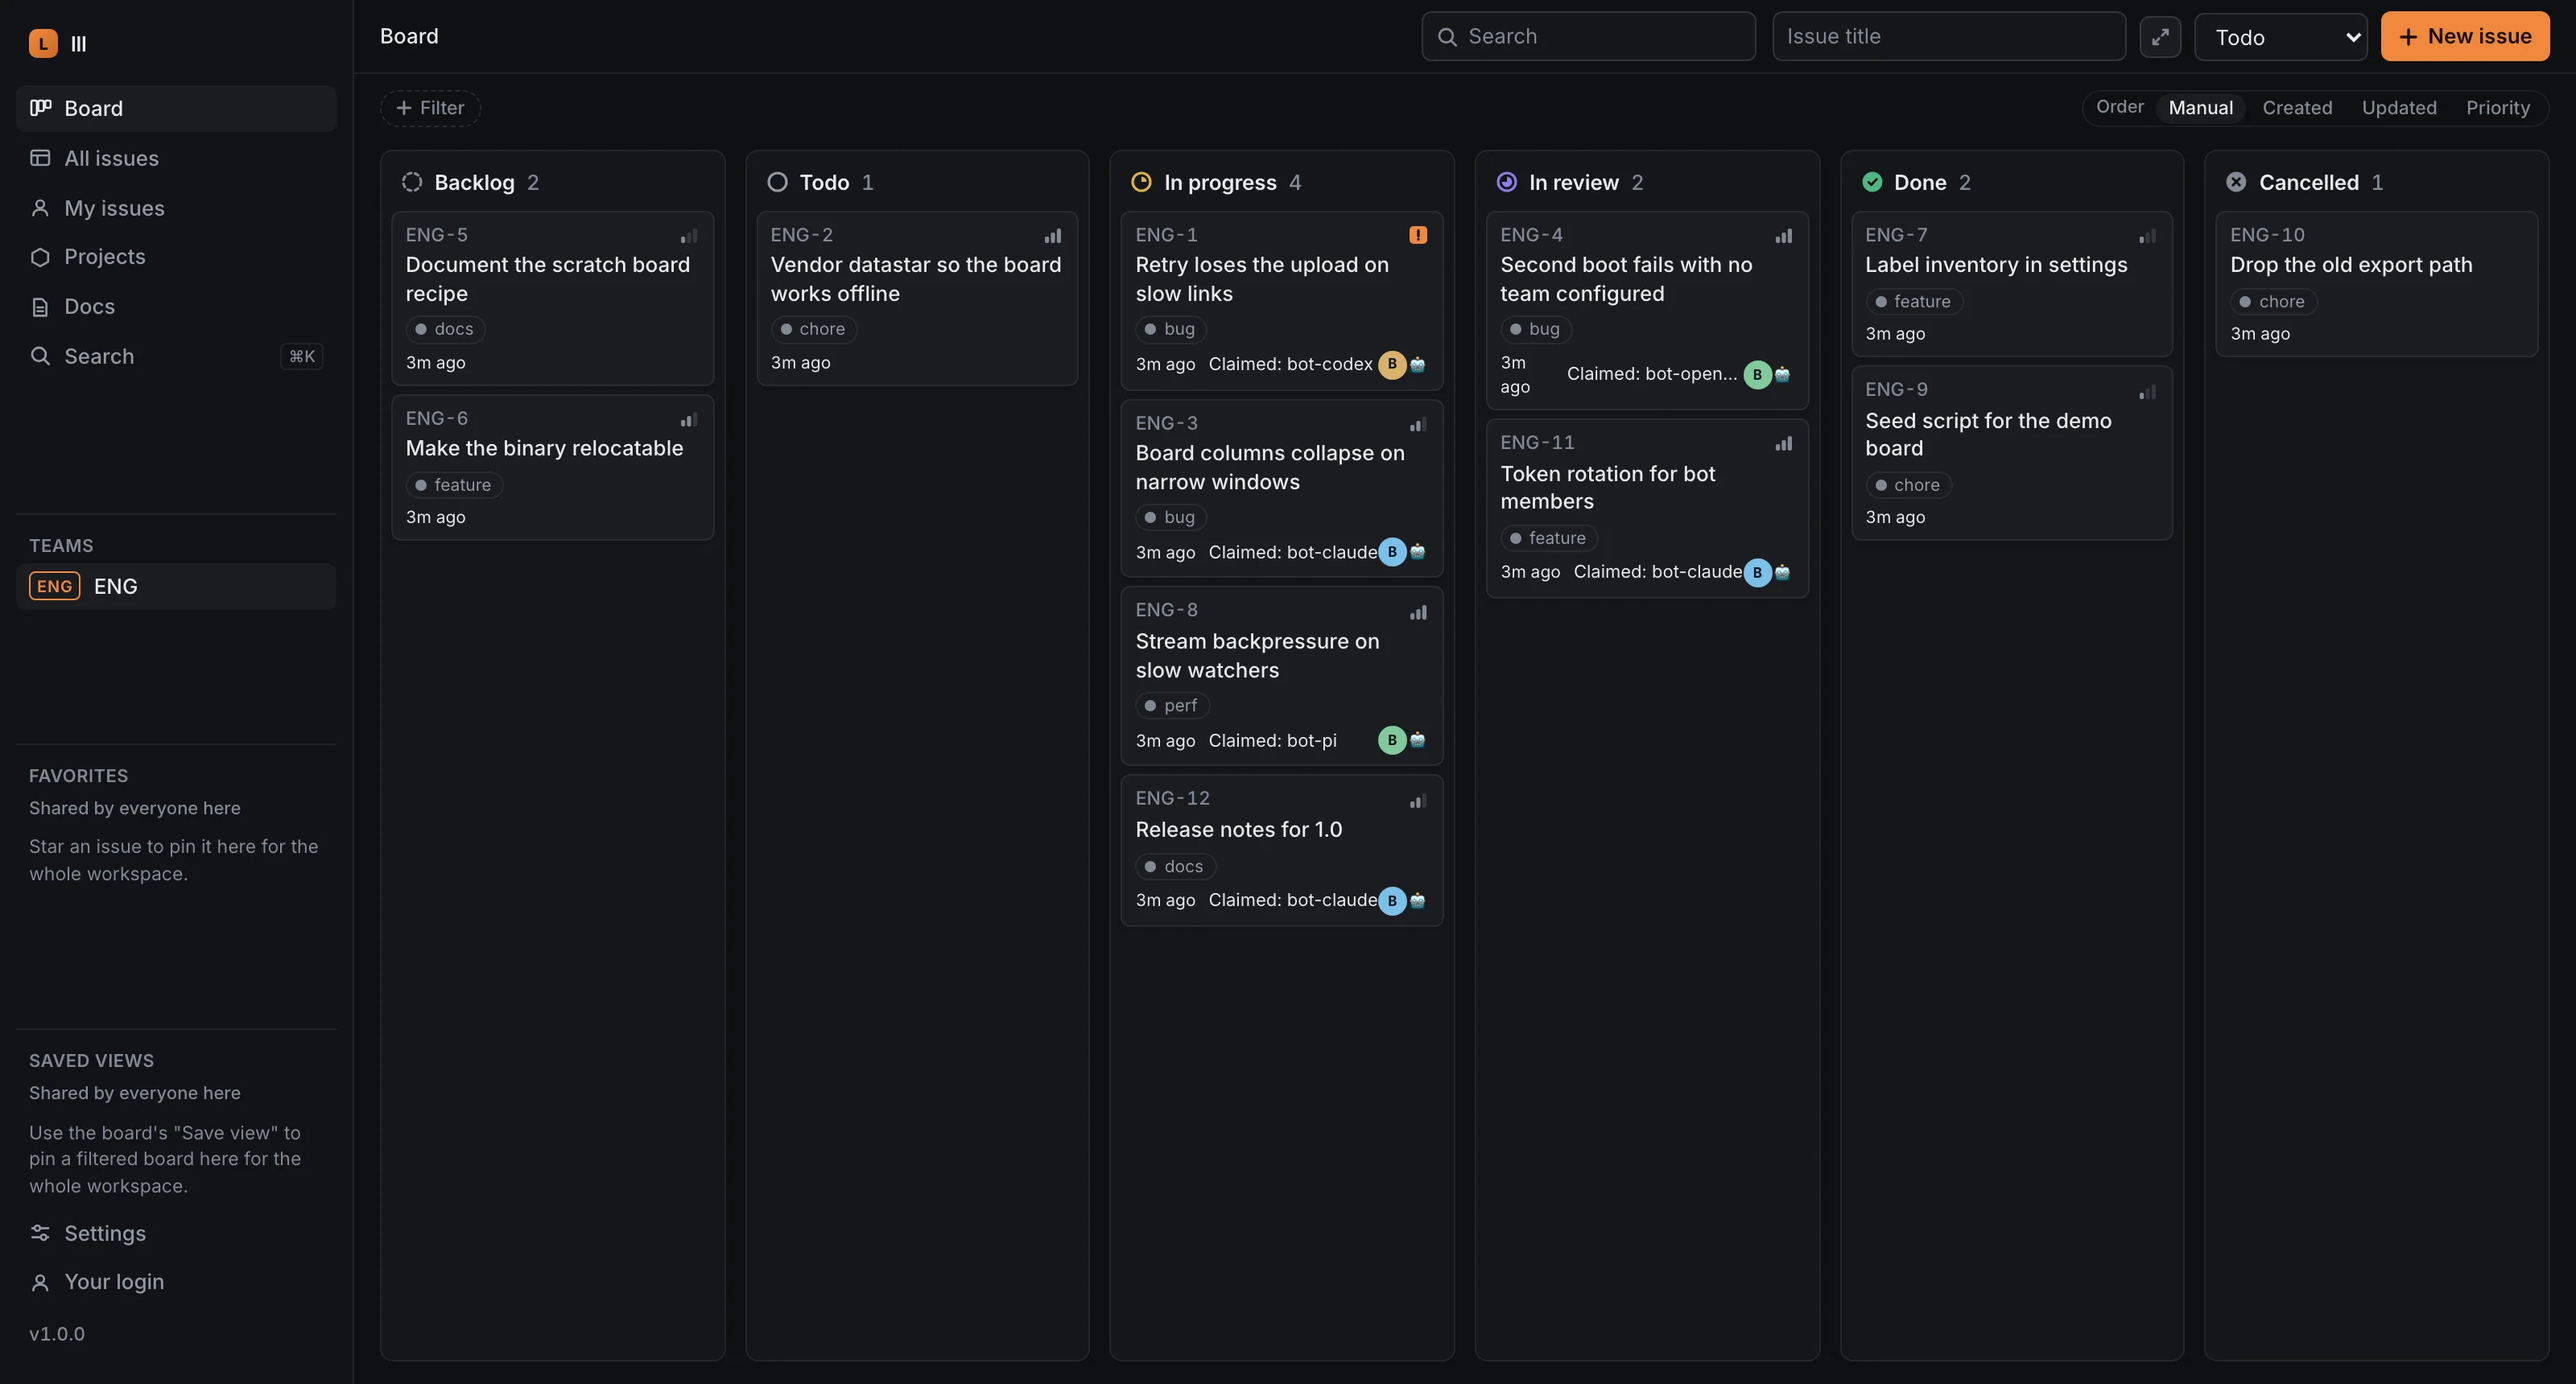
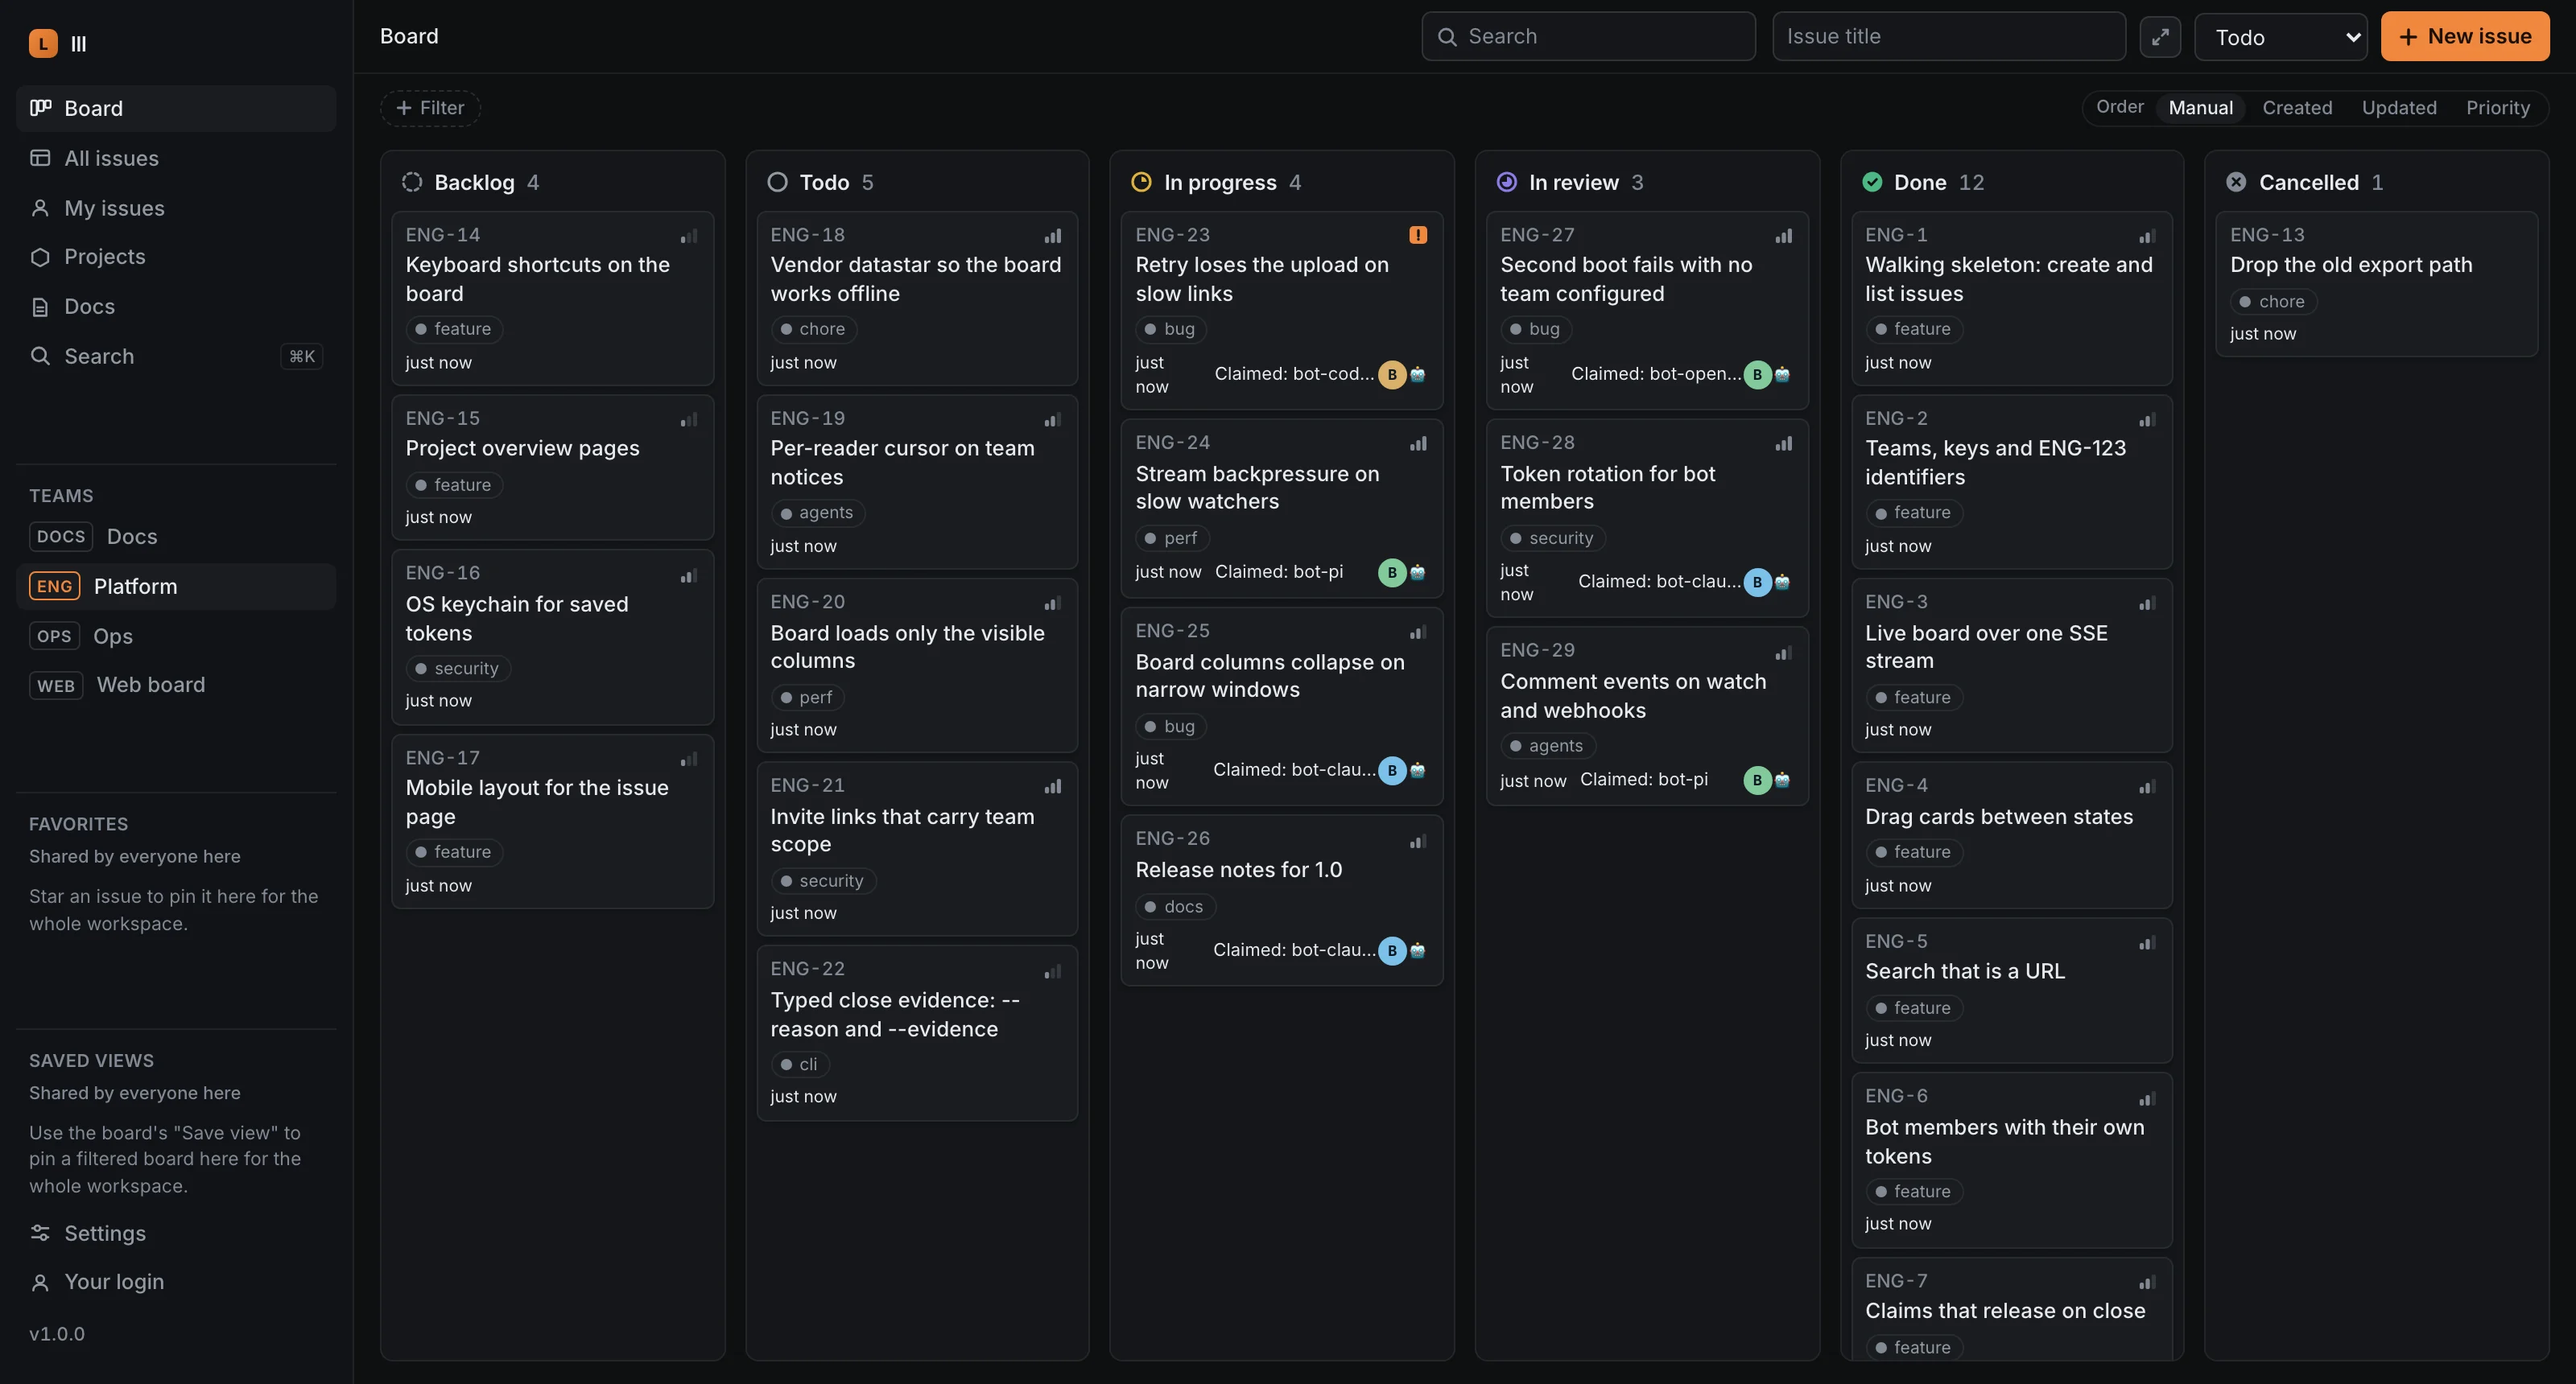
Landing: busier synthetic board (four teams, every column, bot claims) (LLL-697)
Both board images now come from one seeded lll 1.0.0 server; the seed
script that made them is kept beside the decision comps so the shot can
be regenerated.

diff --git a/docs/index.html b/docs/index.html
@@ -334,11 +334,11 @@ FINISH: unreviewed and undocumented is unfinished; this build ends with the fini
   <figure class="shot">
     <div class="frame">
       <picture>
-        <source media="(max-width: 560px)" srcset="board-claims.webp" width="920" height="1000">
-        <img src="board-agents.webp" width="3200" height="1720" alt="The lll board for team ENG: six state columns. In progress holds issues claimed by bot-codex, bot-claude and bot-pi; In review holds issues claimed by bot-opencode and bot-claude.">
+        <source media="(max-width: 560px)" srcset="board-claims.webp" width="920" height="1090">
+        <img src="board-agents.webp" width="3200" height="1720" alt="A synthetic lll board for team ENG (Platform), with Docs, Ops and Web board teams in the sidebar. In progress holds issues claimed by bot-codex, bot-pi and bot-claude; In review holds issues claimed by bot-opencode, bot-claude and bot-pi; Done holds the long tail.">
       </picture>
     </div>
-    <figcaption>A demo board on lll 1.0. Each claim belongs to an agent's bot: one per harness, each with its own token.</figcaption>
+    <figcaption>A synthetic board on lll 1.0. Each claim belongs to an agent's bot: one per harness, each with its own token.</figcaption>
   </figure>
 
   <section class="s wrap" aria-labelledby="t-play">
@@ -409,7 +409,7 @@ Released bot-claude (agent claude-code.laptop)'s claim; assignee unchanged.</pre
       </table>
       <div class="aside">
         <figure class="judged">
-          <img src="board-claims.webp" width="920" height="1000" alt="Board columns In progress and In review, every card claimed by an agent's bot." loading="lazy">
+          <img src="board-claims.webp" width="920" height="1090" alt="Board columns In progress and In review, every card claimed by an agent's bot." loading="lazy">
           <figcaption>Judged here: the server's own state.</figcaption>
         </figure>
         <p>Since the first fleet, <strong>2,061 fresh Claude Code agents</strong> have run 145 fleets against lll, plus 36 <code>gpt-5.6-luna</code> workers in the first harness.</p>
